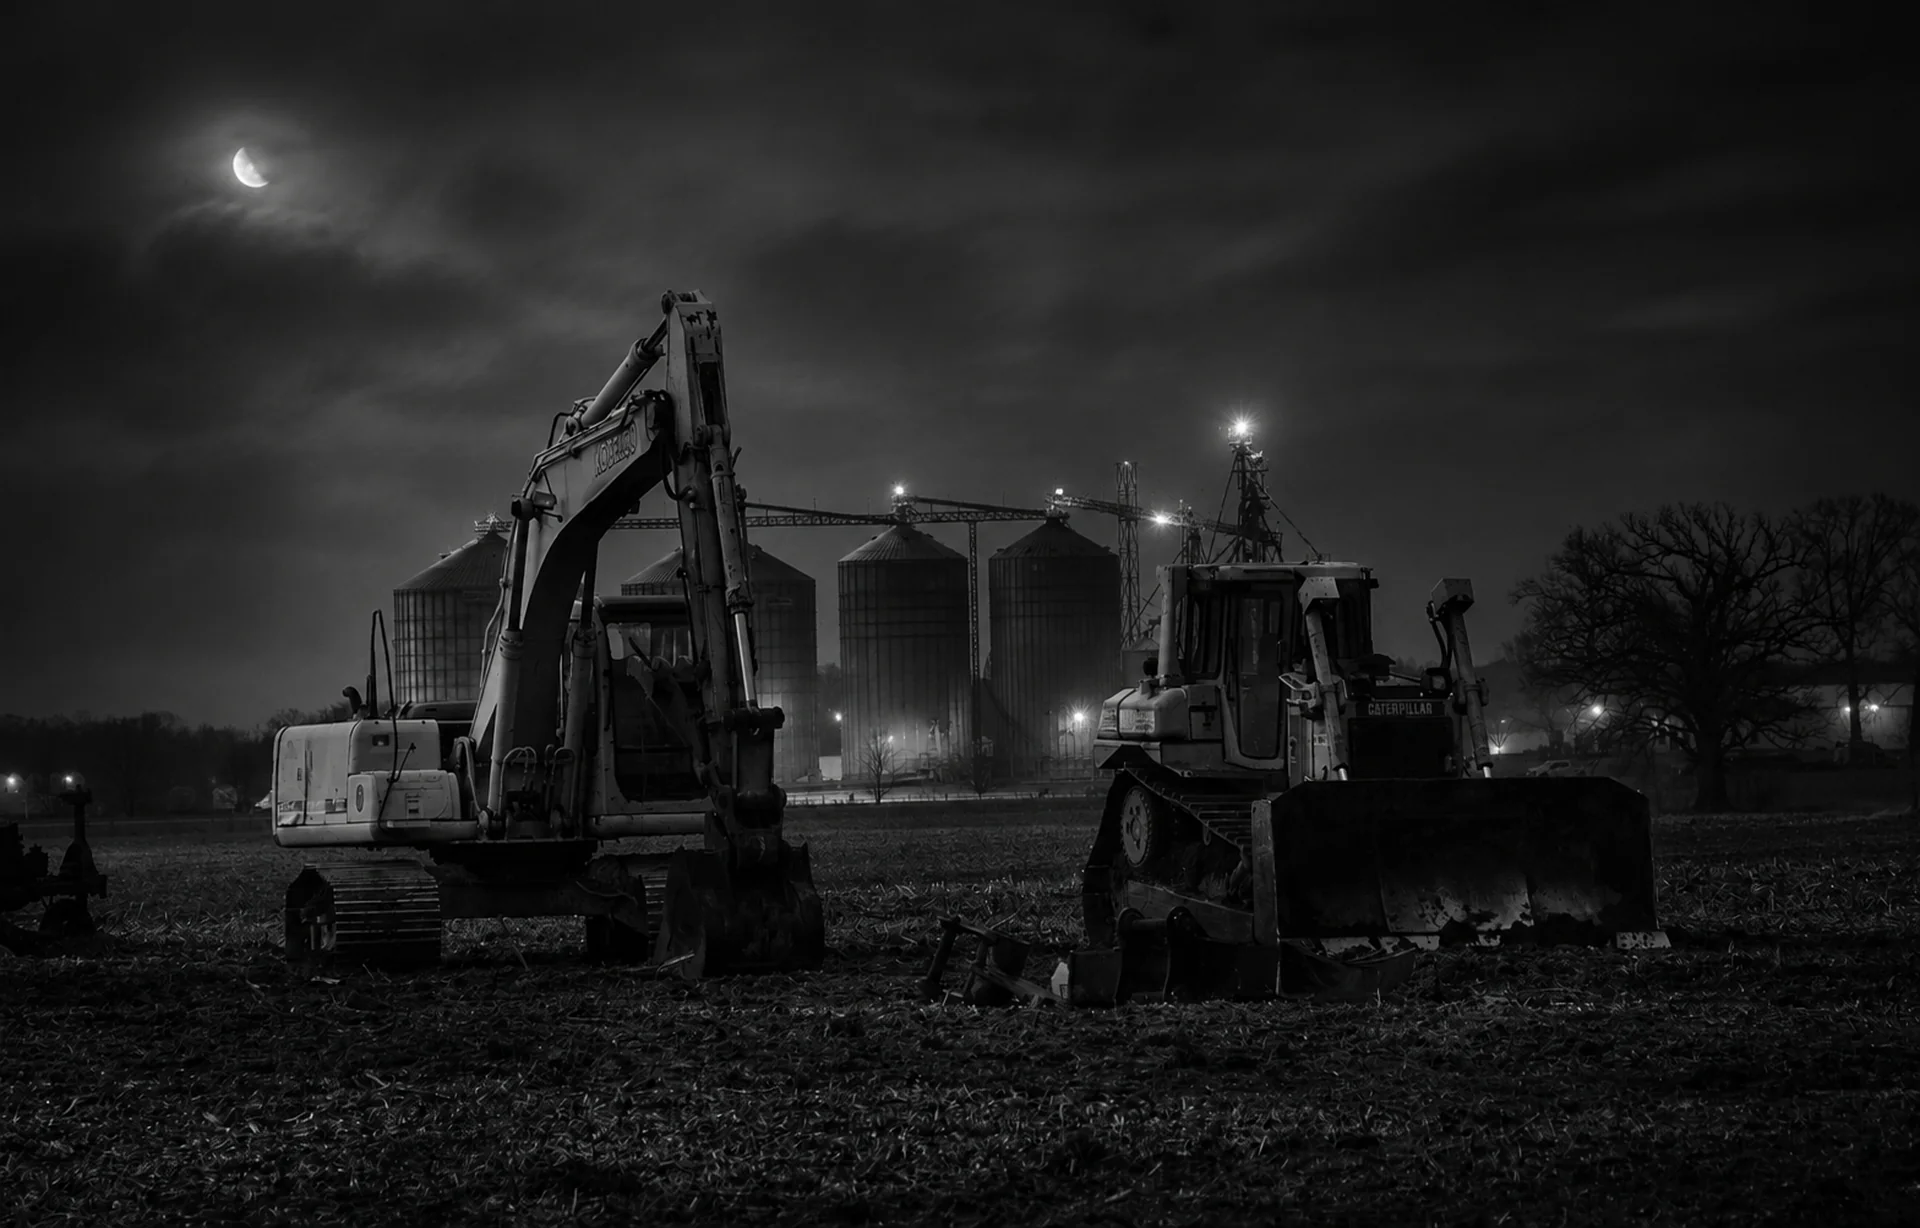
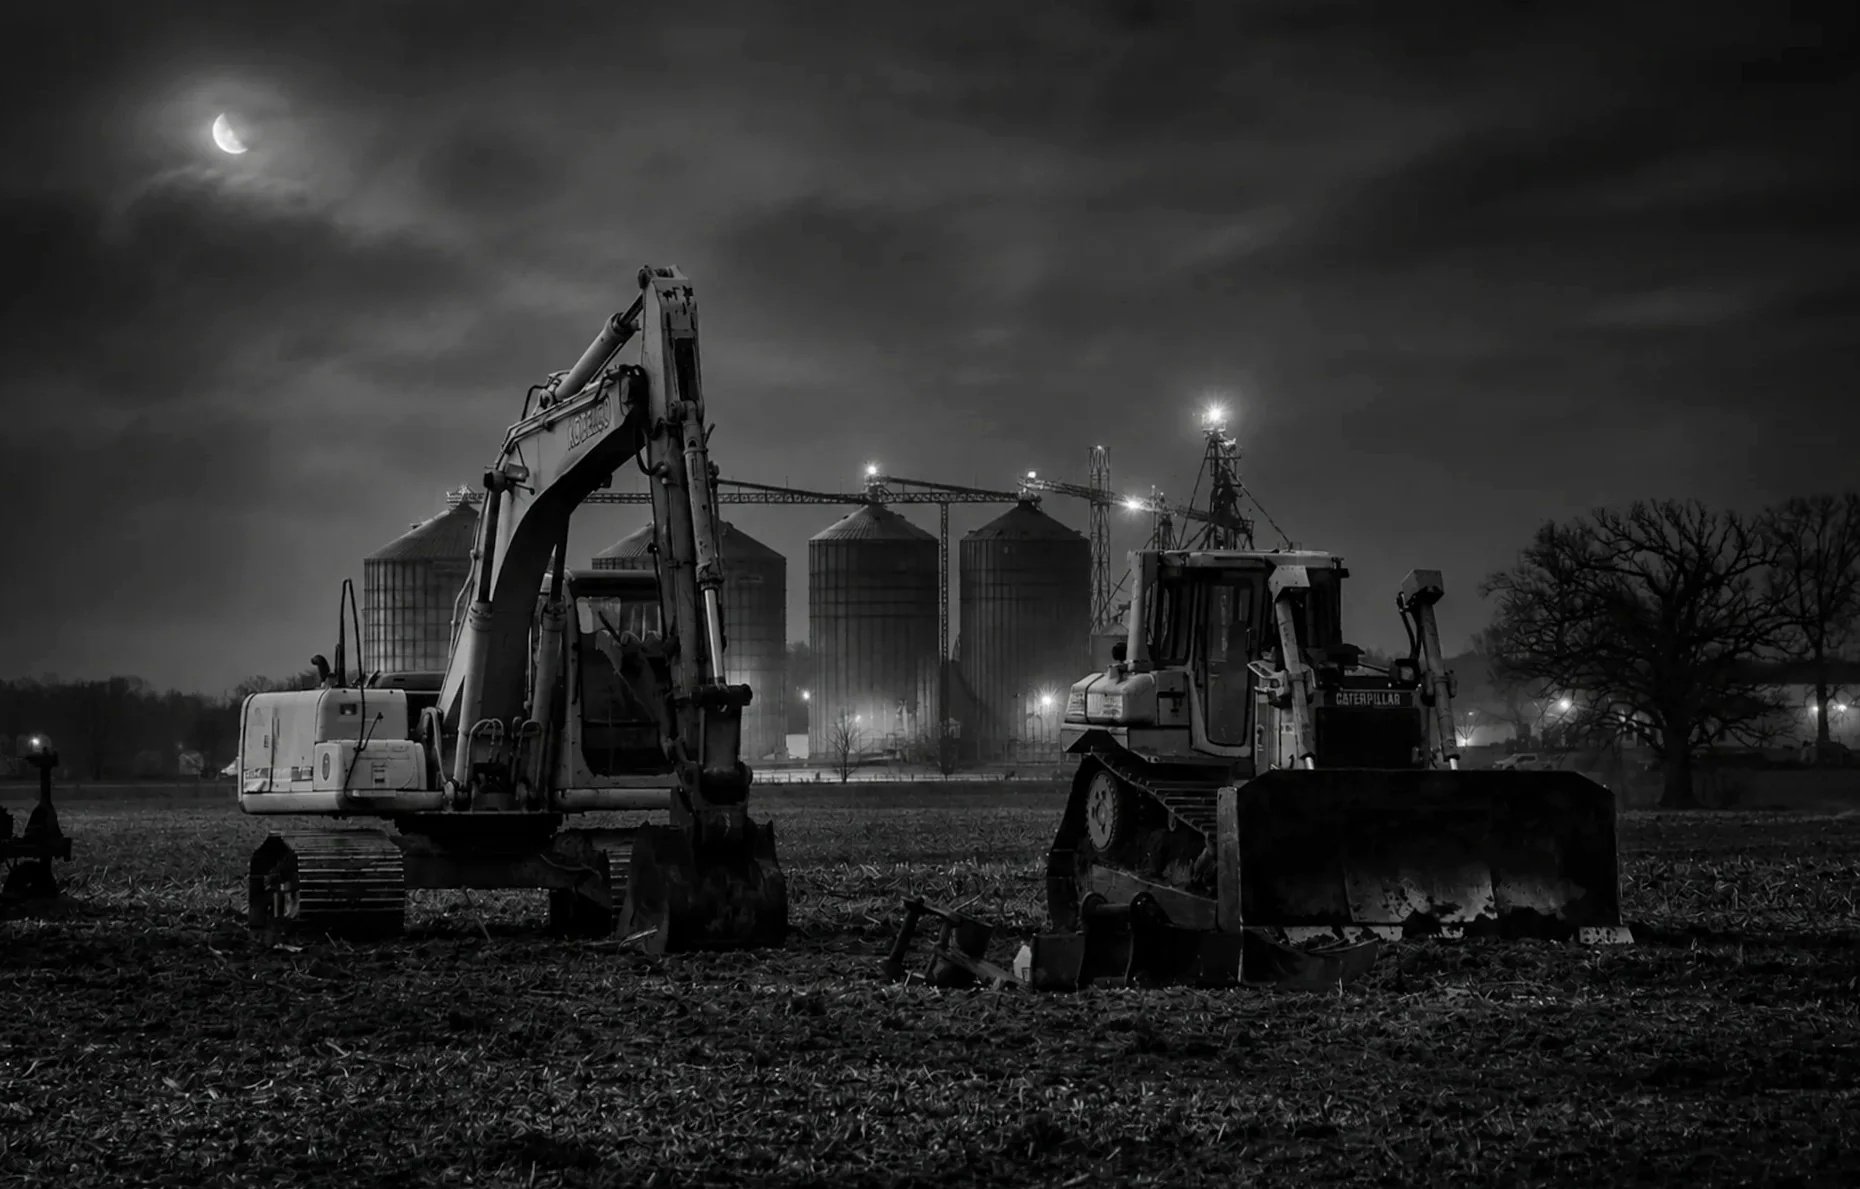
troca de nome

diff --git a/index.html b/index.html
@@ -4,7 +4,7 @@
   <meta charset="UTF-8">
   <meta name="viewport" content="width=device-width, initial-scale=1.0, maximum-scale=1.0, user-scalable=no">
 
-  <title>Terraplenagem e Retroescavadeira | Gustavo Terraplanagem</title>
+  <title>Terraplenagem e Retroescavadeira | GSM Terraplanagem</title>
 
   <meta
     name="description"
@@ -959,7 +959,7 @@
       <nav class="nav">
 
         <a href="#inicio" class="logo">
-          Gustavo<span> Terraplanagem</span>
+          GSM<span> Terraplanagem</span>
         </a>
 
         <div class="nav-links" id="navLinks">
@@ -1527,11 +1527,11 @@
       <div class="footer-inner">
 
         <div class="logo">
-          Gustavo<span> Terraplanagem</span>
+          GSM<span> Terraplanagem</span>
         </div>
 
         <div class="footer-copy">
-          © 2026 Gustavo Terraplanagem. Todos os direitos reservados.
+          © 2026 GSM Terraplanagem. Todos os direitos reservados.
         </div>
 
       </div>
